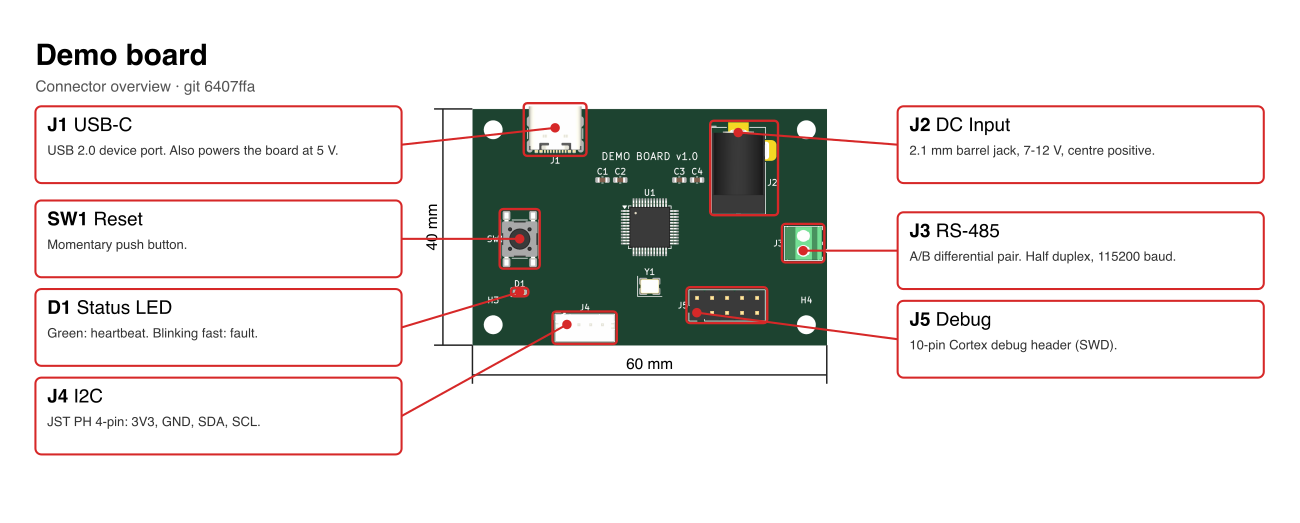
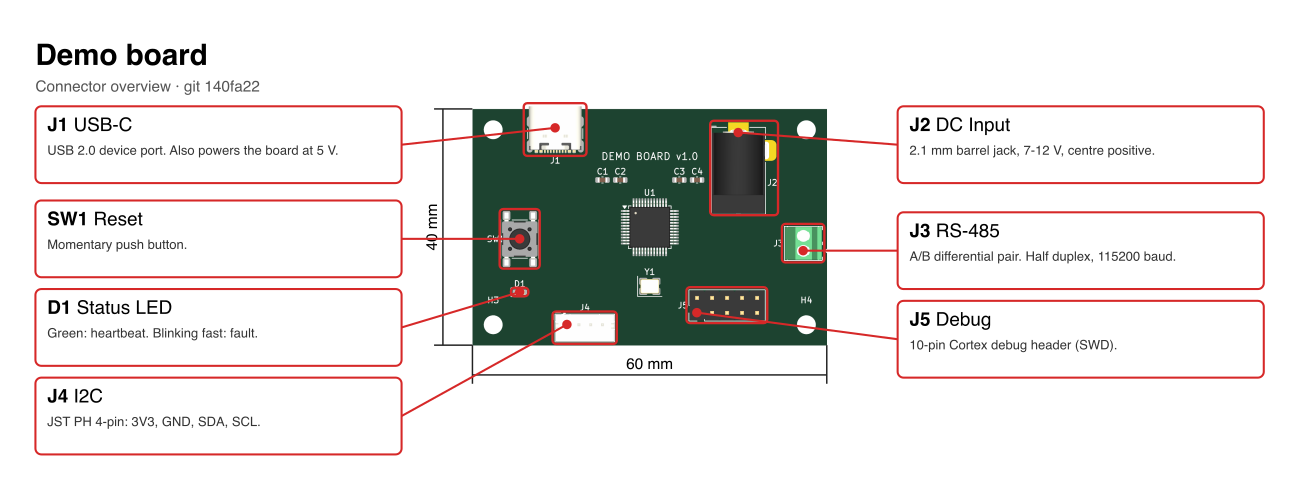
Fix callouts bug

diff --git a/src/kicad_callouts/__init__.py b/src/kicad_callouts/__init__.py
@@ -155,6 +155,40 @@ def esc(s):
     return html.escape(s, quote=True)
 
 
+def crosses(p, q, r, s):
+    """True if segments pq and rs cross at a point interior to both."""
+    side = lambda a, b, c: (b[0] - a[0]) * (c[1] - a[1]) - (b[1] - a[1]) * (c[0] - a[0])
+    return side(p, q, r) * side(p, q, s) < 0 and side(r, s, p) * side(r, s, q) < 0
+
+
+def place(col, x0, ax, board_x, board_y):
+    """Stack one column of callout boxes with their left edge at x0 and set each
+    item's "box" to its top-left corner.  ax is the x of the box edge the leaders
+    leave from.  Reorders col top to bottom."""
+    # Top to bottom by footprint; at equal heights the footprint nearest the column goes first.
+    col.sort(key=lambda i: (i["y"], abs(board_x + i["x"] - ax)))
+    ys = []
+    for i in col:
+        y = max(MARGIN + TITLE_H, i["y"] + board_y - BOX_H / 2)  # keep clear of the title
+        if ys and y < ys[-1] + BOX_H + 2:
+            y = ys[-1] + BOX_H + 2
+        ys.append(y)
+    # Footprints at nearly the same height can still cross once boxes are pushed
+    # down.  Swap the boxes of any two crossing leaders until none cross; each
+    # swap shortens the total leader length, so this terminates.
+    leader = lambda n: ((ax, ys[n] + BOX_H / 2), (board_x + col[n]["x"], board_y + col[n]["y"]))
+    swapped = True
+    while swapped:
+        swapped = False
+        for a in range(len(col)):
+            for b in range(a + 1, len(col)):
+                if crosses(*leader(a), *leader(b)):
+                    col[a], col[b] = col[b], col[a]
+                    swapped = True
+    for i, y in zip(col, ys):
+        i["box"] = (x0, y)
+
+
 def main():
     ap = argparse.ArgumentParser(description=__doc__, formatter_class=argparse.RawDescriptionHelpFormatter)
     ap.add_argument("pcb")
@@ -184,26 +218,16 @@ def main():
             items.append(dict(r, x=fx - ox, y=fy - oy, bx=l - ox, by=t - oy, bwid=rr - l, bhgt=b - t))
 
         # Put each callout on the side of the board nearest to it, stacked top to bottom.
-        left = sorted([i for i in items if i["x"] < bw / 2], key=lambda i: i["y"])
-        right = sorted([i for i in items if i["x"] >= bw / 2], key=lambda i: i["y"])
+        left = [i for i in items if i["x"] < bw / 2]
+        right = [i for i in items if i["x"] >= bw / 2]
         over_top, over_bot = (pt - full[1]) / scale, (full[3] - pb) / scale  # parts overhanging the outline, mm
         board_x = MARGIN + COL_W + GAP
         board_y = MARGIN + TITLE_H + over_top
         W = board_x + bw + GAP + COL_W + MARGIN
         dim_y = board_y + bh + over_bot + 5  # width dimension line, below any overhang
-        H = max(dim_y + 4, board_y + max(len(left), len(right)) * (BOX_H + 3)) + MARGIN
-
-        def place(col, x0):
-            ys = []
-            for i in col:
-                y = max(MARGIN + TITLE_H, i["y"] + board_y - BOX_H / 2)  # keep clear of the title
-                if ys and y < ys[-1] + BOX_H + 2:
-                    y = ys[-1] + BOX_H + 2
-                ys.append(y)
-                i["box"] = (x0, y)
-
-        place(left, MARGIN)
-        place(right, board_x + bw + GAP)
+        place(left, MARGIN, MARGIN + COL_W, board_x, board_y)
+        place(right, board_x + bw + GAP, board_x + bw + GAP, board_x, board_y)
+        H = max(dim_y + 4, max(i["box"][1] for i in items) + BOX_H) + MARGIN
 
         title = a.title or os.path.splitext(os.path.basename(a.pcb))[0]
         rev = subprocess.run(["git", "-C", os.path.dirname(os.path.abspath(a.pcb)), "rev-parse", "--short", "HEAD"],

diff --git a/tests/test_layout.py b/tests/test_layout.py
@@ -1,0 +1,53 @@
+"""Layout tests for callout placement.  Run with: uv run python -m unittest discover tests"""
+import unittest
+
+from kicad_callouts import BOX_H, COL_W, GAP, MARGIN, TITLE_H, crosses, place
+
+# A 148 x 60 mm board with its outline from (74, 75) to (222, 135) mm: one footprint
+# near the top edge and a row of connectors along the bottom, in file order.
+OX, OY, BW = 74, 75, 148
+FOOTPRINTS = [("J4", 111.5, 78), ("J7", 147.5, 127.055), ("J8", 164, 127.055), ("J11", 208.2, 125.705),
+              ("J9", 180.5, 127.055), ("J10", 195.2, 125.705), ("J6", 131, 127.055), ("J5", 114.5, 127.055),
+              ("J2", 77.695, 94), ("J1", 87, 123.795), ("J3", 99, 127.055)]
+BOARD_X, BOARD_Y = MARGIN + COL_W + GAP, MARGIN + TITLE_H
+
+
+def layout(footprints, ox=OX, oy=OY, bw=BW):
+    """Place footprints the way main() does and return (left, right, crossings)."""
+    items = [dict(ref=ref, x=x - ox, y=y - oy) for ref, x, y in footprints]
+    left = [i for i in items if i["x"] < bw / 2]
+    right = [i for i in items if i["x"] >= bw / 2]
+    crossings = []
+    for col, x0, ax in ((left, MARGIN, MARGIN + COL_W), (right, BOARD_X + bw + GAP, BOARD_X + bw + GAP)):
+        place(col, x0, ax, BOARD_X, BOARD_Y)
+        leaders = [((ax, i["box"][1] + BOX_H / 2), (BOARD_X + i["x"], BOARD_Y + i["y"])) for i in col]
+        crossings += [(a["ref"], b["ref"]) for n, a in enumerate(col) for m, b in enumerate(col)
+                      if n < m and crosses(*leaders[n], *leaders[m])]
+    return left, right, crossings
+
+
+class LayoutTest(unittest.TestCase):
+    def test_row_of_connectors(self):
+        left, right, crossings = layout(FOOTPRINTS)
+        self.assertEqual([i["ref"] for i in left], ["J4", "J2", "J1", "J3", "J5", "J6", "J7"])
+        self.assertEqual([i["ref"] for i in right], ["J11", "J10", "J9", "J8"])
+        self.assertEqual(crossings, [])
+
+    def test_boxes_clear_title_and_each_other(self):
+        left, right, _ = layout(FOOTPRINTS)
+        for col in (left, right):
+            ys = [i["box"][1] for i in col]
+            self.assertGreaterEqual(ys[0], MARGIN + TITLE_H)
+            for a, b in zip(ys, ys[1:]):
+                self.assertGreaterEqual(b, a + BOX_H)
+        self.assertEqual(left[0]["box"][1], MARGIN + TITLE_H)  # J4 is 3 mm from the top edge
+
+    def test_near_ties_do_not_cross(self):
+        # B is 1 mm lower than A but much nearer the column; C pushes both boxes down.
+        left, _, crossings = layout([("C", 5, 48), ("A", 40, 50), ("B", 10, 51)], ox=0, oy=0)
+        self.assertEqual([i["ref"] for i in left], ["C", "B", "A"])
+        self.assertEqual(crossings, [])
+
+
+if __name__ == "__main__":
+    unittest.main()

diff --git a/README.md b/README.md
@@ -50,7 +50,7 @@ The easiest place to set them is the schematic: add the fields to each symbol (S
 
 ### Layout
 
-Callouts are placed in a column on whichever side of the board the footprint is closer to, ordered top to bottom by the footprint's position. Boxes that would overlap are pushed down. Callout text can be any footprint, not just connectors, so the same tool works for switches, LEDs, test points, or mounting holes.
+Callouts are placed in a column on whichever side of the board the footprint is closer to, ordered top to bottom by the footprint's position. Boxes that would overlap are pushed down, and footprints at the same or nearly the same height are ordered so that their leader lines do not cross. Callout text can be any footprint, not just connectors, so the same tool works for switches, LEDs, test points, or mounting holes.
 
 ## License
 
